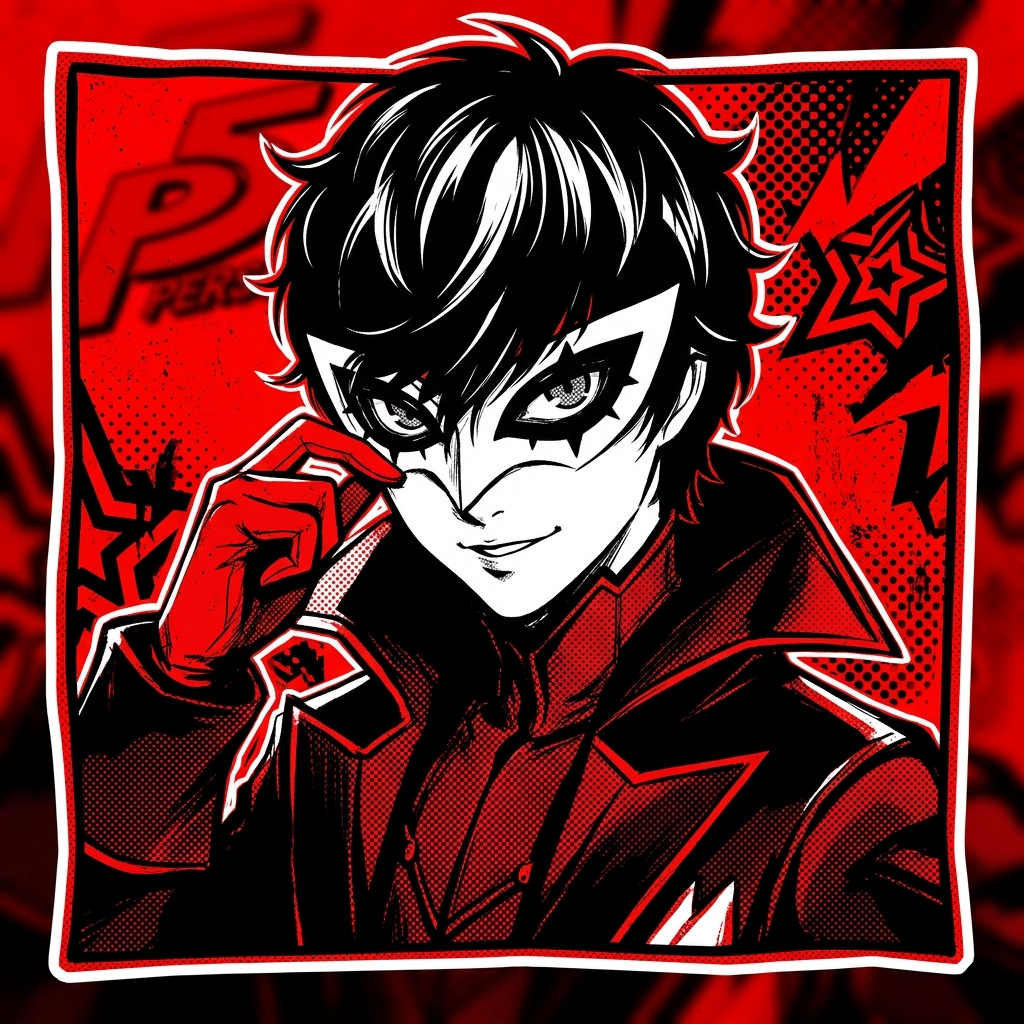
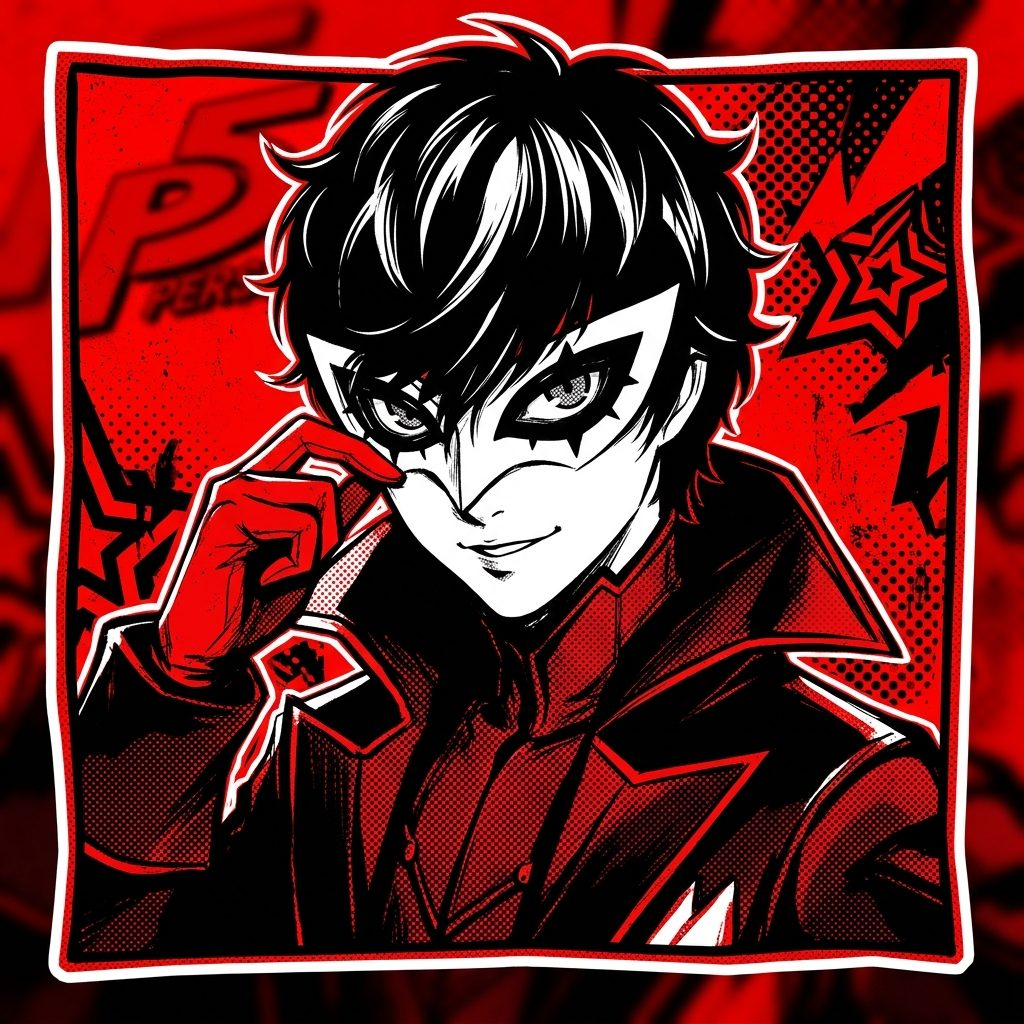
perf(slow-machines): gzip + pre-serialized /api/database (271KB→42KB), image recompression (5.6MB→1.4MB), heartbeat-first startup
Gruphius slow-machine report follow-up. On weak hardware every boot
re-serialized a 271KB JSON payload and re-served 5.6MB of oversized JPEGs.

- server.py: REFERENCE_DB pre-serialized + gzipped once at boot; served with
  Content-Encoding negotiation (Accept-Encoding honored)
- assets: 6 oversized JPEGs recompressed (quality 82, max dim 1920)
- app.js: heartbeat fires before slow init (watchdog misfire fix)
- main.py: 45s watchdog, dead-window destroy on fallback, 3h idle shutdown

diff --git a/server.py b/server.py
@@ -290,6 +290,12 @@ def build_reference_db():
     return db
 
 REFERENCE_DB = build_reference_db()
+# Pre-serialized + gzipped once at boot: /api/database serves the same bytes
+# every time, so paying json.dumps + gzip per request is pure waste on slow
+# CPUs (Gruphius slow-machine report, 2026-08-25).
+import gzip as _gzip
+_REFERENCE_DB_JSON = json.dumps(REFERENCE_DB).encode("utf-8")
+_REFERENCE_DB_GZ = _gzip.compress(_REFERENCE_DB_JSON, mtime=0)
 BUILD_ID = "audit-2026-08-16"
 CURRENT_EDITOR = None
 CURRENT_FILE_PATH = None
@@ -473,7 +479,15 @@ class P5RWebHandler(SimpleHTTPRequestHandler):
             })
             return
         elif parsed.path == "/api/database":
-            self.send_json(200, REFERENCE_DB)
+            accepts_gzip = "gzip" in (self.headers.get("Accept-Encoding") or "")
+            body = _REFERENCE_DB_GZ if accepts_gzip else _REFERENCE_DB_JSON
+            self.send_response(200)
+            self.send_header("Content-Type", "application/json; charset=utf-8")
+            if accepts_gzip:
+                self.send_header("Content-Encoding", "gzip")
+            self.send_header("Content-Length", str(len(body)))
+            self.end_headers()
+            self.wfile.write(body)
             return
         elif parsed.path == "/api/discovery":
             dirs = discover_steam_save_dirs()
